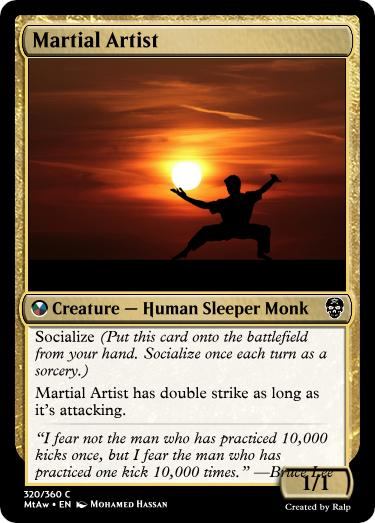
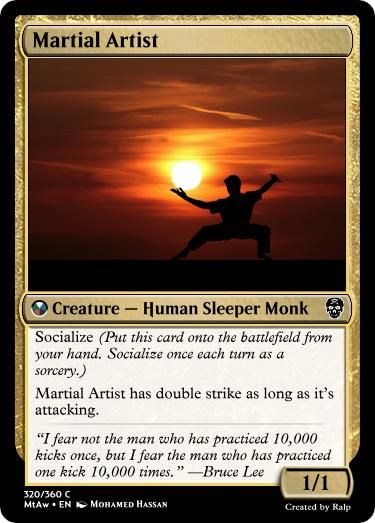
Fix imp grouping, Martial Artist overlap

Changed region(s): [[0.088, 0.6119, 0.9093, 0.7954], [0.088, 0.826, 0.9093, 0.9178]]

diff --git a/previews/MtAw.html b/previews/MtAw.html
@@ -517,6 +517,8 @@
 				<div class="container"><img loading="lazy" alt="sets\MtAw-files\img\242.jpg" id="MtAw_242" data-flag="@X" onclick="openSidebar('MtAw_242',false)"></div>
 				<div class="container"><img loading="lazy" alt="sets\MtAw-files\img\244.jpg" id="MtAw_244" data-flag="@X" onclick="openSidebar('MtAw_244',false)"></div>
 				<div class="container"><img loading="lazy" alt="sets\MtAw-files\img\243.jpg" id="MtAw_243" data-flag="@X" onclick="openSidebar('MtAw_243',false)"></div>
+				<div class="container"><img loading="lazy" alt="sets\MtAw-files\img\435.jpg" id="MtAw_435" data-flag="@X" onclick="openSidebar('MtAw_435',false)"></div>
+				<div class="container"><img loading="lazy" alt="sets\MtAw-files\img\25.jpg" id="MtAw_25" data-flag="@X" onclick="openSidebar('MtAw_25',false)"></div>
 				<div class="container"><img loading="lazy" alt="sets\MtAw-files\img\245.jpg" id="MtAw_245" data-flag="@X" onclick="openSidebar('MtAw_245',false)"></div>
 				<div class="container"><img loading="lazy" alt="sets\MtAw-files\img\246.jpg" id="MtAw_246" data-flag="@X" onclick="openSidebar('MtAw_246',false)"></div>
 				<div class="container"><img loading="lazy" alt="sets\MtAw-files\img\247.jpg" id="MtAw_247" data-flag="@X" onclick="openSidebar('MtAw_247',false)"></div>
